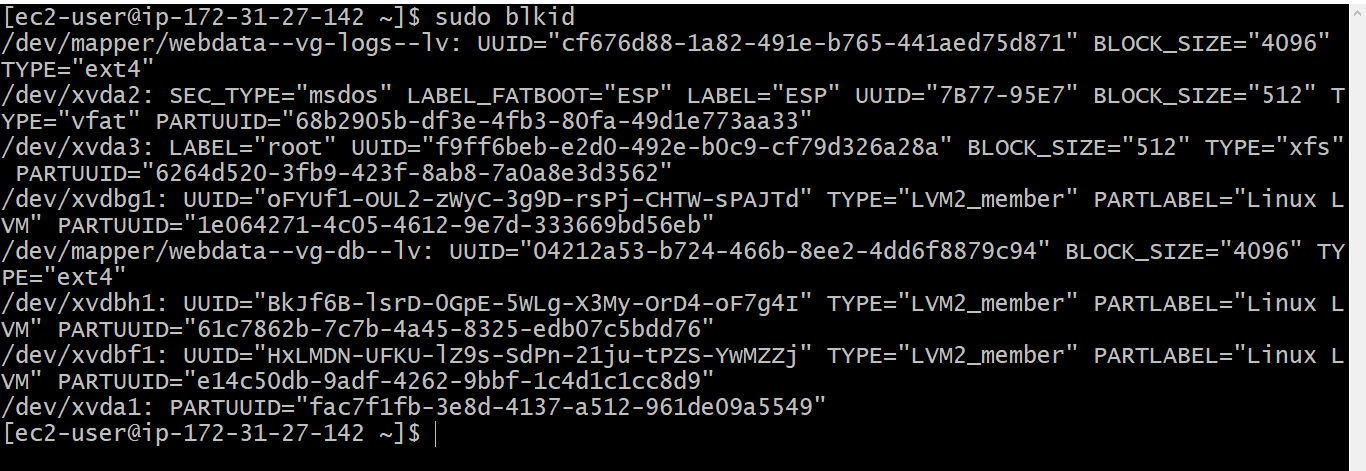
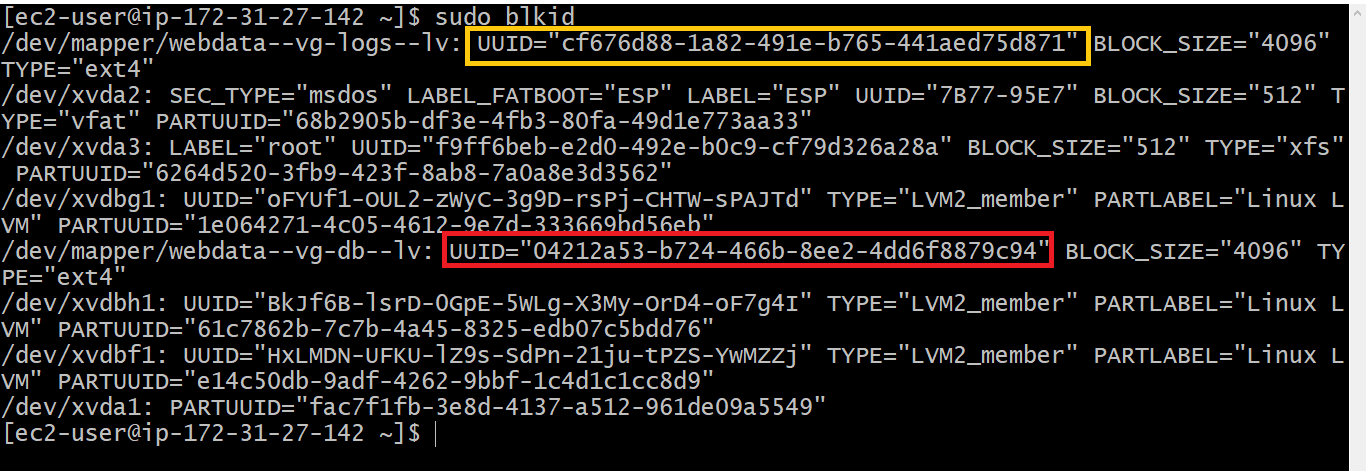
Web_Solution_with_WordPress

Changed region(s): [[0.3382, 0.0297, 0.7994, 0.1486], [0.3075, 0.4756, 0.7687, 0.5945]]

diff --git a/6.Web_Solution_with_Wordpress/README.md b/6.Web_Solution_with_Wordpress/README.md
@@ -57,7 +57,7 @@ NB: Create 3 volumes for the webserver and 3 volume for the MySQL server, each o
 ![attach-volume](../6.Web_Solution_with_Wordpress/images/wss.PNG)
 ---
 
-## 4. Begin Configuration
+## 4. Configurations
 
 Open the bash terminal. Use `lsblk` commmand to inspect what block devices are attached to the server you are on. NB: All devices in linux are in `/dev/` directory.
 ```bash
@@ -141,55 +141,176 @@ sudo vgdisplay -v
 ---
 ![lvs](../6.Web_Solution_with_Wordpress/images/1d.PNG)
 ---
-## 5. Create Remote User
-
-Log into MySQL shell:
+Use `mkfs.ext4` to format the logical volumes with `ext4`filesystem.
 ```bash
-sudo mysql -u root
+sudo mkfs -t ext4 /dev/webdata-vg/apps-lv
+sudo mkfs -t ext4 /dev/webdata-vg/logs-lv
+``` 
+---
+![lvs](../6.Web_Solution_with_Wordpress/images/1f.PNG)
+---
+![lvs](../6.Web_Solution_with_Wordpress/images/1g.PNG)
+---
+Create `/var/www/html` directory to store website files.
+```bash
+sudo mkdir -p /var/www/html
+``` 
+Create `/home/recovery/logs` directory to backup of log data.
+```bash
+sudo mkdir -p /home/recovery/logs
+``` 
+Mount  `/var/www/html` on `apps-lv` logical volume
+```bash
+sudo mount /dev/webdata-vg/apps-lv /var/www/html/
 ```
-Create a user and grant permissions:
-Log into MySQL shell:
+Use `rsync` Utility to backup all the files in the log directory `/var/log` into `/home/recovery/logs` (This is required before mounting the file system)
 ```bash
-CREATE USER 'law'@'%' IDENTIFIED BY 'StrongPassword123!';
-GRANT ALL PRIVILEGES ON *.* TO 'law'@'%' WITH GRANT OPTION;
+sudo rsync -av /var/log/ /home/recovery/logs/
+``` 
+Mount `/var/log` on `logs-lv` logical volume. 
+```bash
+sudo mount /dev/webdata-vg/logs-lv /var/log
+``` 
+Restore log files back into `/var/log` directory
+```bash
+sudo rsync -av /home/recovery/logs/ /var/log
+``` 
+Update `/etc/fstab` file with the `UUID` from `blkid` so that the mount configuration will persist after restarting the server.
+
+```bash
+sudo blkid
+``` 
+---
+![lvs](../6.Web_Solution_with_Wordpress/images/2b.PNG)
+---
+Update `/etc/fstab` with your own UUID. Remove the quotes.
+
+```bash
+sudo vi /etc/fstab
+``` 
+---
+![lvs](../6.Web_Solution_with_Wordpress/images/2de.PNG)
+---
+Test the configuration and reload the daemon
+
+```bash
+sudo mount -a
+sudo systemctl daemon-reload
+``` 
+Verify by running
+```bash
+df -h
+``` 
+## 5. Prepare the Database Server
+
+Launch a second RedHat EC2 instance and repeat the same steps as as you did for the wordpress server but instead of `apps-lv`. Create `db-lv` and mount it to `/db` directory instead of `/var/www/html/`. 
+
+---
+## 6. Install WordPress on the Web Server 
+
+Update the repository:
+```bash
+sudo yum -y update
+```
+Install `wget`, `Apache` and it's dependencies
+```bash
+sudo yum -y install wget httpd php php-mysqlnd php-fpm php-json
+```
+Start Apache:
+```bash
+sudo systemctl enable httpd
+sudo systemctl start httpd
+sudo systemctl status httpd
+```
+Configure a Free AlmaLinux Repo on RHEL 9
+```bash
+sudo tee /etc/yum.repos.d/almalinux.repo <<'EOF'
+[baseos]
+name=AlmaLinux 9 - BaseOS
+baseurl=http://repo.almalinux.org/almalinux/9/BaseOS/x86_64/os/
+enabled=1
+gpgcheck=0
+
+[appstream]
+name=AlmaLinux 9 - AppStream
+baseurl=http://repo.almalinux.org/almalinux/9/AppStream/x86_64/os/
+enabled=1
+gpgcheck=0
+
+[extras]
+name=AlmaLinux 9 - Extras
+baseurl=http://repo.almalinux.org/almalinux/9/extras/x86_64/os/
+enabled=1
+gpgcheck=0
+EOF
+
+```
+Rebuild Cache
+```bash
+sudo dnf clean all
+sudo dnf makecache
+```
+Now install PHP
+```bash
+sudo dnf install php php-cli php-fpm php-common php-opache php-gd php-curl php-mysqlnd -y
+
+```
+---
+```bash
+sudo systemctl start php-fpm
+sudo systemctl enable php-fpm
+setsebool -P httpd_execmem 1
+```
+Restart Apache
+```bash
+sudo systemctl restart httpd
+```
+Download WordPress and copy wordpress to `/var/www/html`
+```bash
+mkdir wordpress && cd wordpress
+sudo wget http://wordpress.org/latest.tar.gz
+sudo tar -xzvf latest.tar.gz
+sudo rm -rf latest.tar.gz
+```
+---
+```bash
+cp wordpress/wp-config-sample.php wordpress/wp-config.php
+cp -R wordpress /var/www/html/
+```
+Configure SELinux Policies
+```bash
+sudo chown -R apache:apache /var/www/html/wordpress
+sudo chcon -t httpd_sys_rw_content_t /var/www/html/wordpress -R 
+sudo setsebool -P httpd_can_network_connect=1
+```
+## 7. Install MySQL on your DB Server EC2
+
+Install MySQL
+```bash
+sudo yum update
+sudo yum install mysql-server
+```
+Verify MySQL 
+```bash
+sudo systemctl restart mysqld
+sudo systemctl enable mysqld
+```
+Configure DB to work with WordPress
+```bash
+sudo mysqld
+CREATE DATABASE wordpress;
+CREATE USER `myuser`@`<Web-Server-Private-IP-Address>`
+IDENTIFIED BY 'mypass';
+GRANT ALL ON wordpress.* TO 'myuser'@'<Web-Server-Private-IP-Address>';
 FLUSH PRIVILEGES;
-
+SHOW DATABASES;
+exit
 ```
-Check the user list:
+Confiure WordPress to connect to Remote Database.
 ```bash
-SELECT user, host FROM mysql.user;
+sudo yum update
+sudo yum install mysql-server
 ```
----
-![Client-Server](../5.Client_Server_Architecture/images/1a.PNG)
----
-As you can see `law` in the list of users.
----
-## 6. Allow Port 3306 in Firewall / Security Group
-
-If using UFW on the server:
-```bash
-sudo ufw allow 3306/tcp
-sudo ufw reload
-```
-If using AWS EC2, open Security Group inbound rule:
-
-- Type: MySQL/Aurora
-
-- Port: 3306
-
-- Source: 0.0.0.0/0 (or your client’s public IP)
----
-![Client-Server](../5.Client_Server_Architecture/images/1b.PNG)
----
-## 7. Verify MySQL is Listening
-
-Run on server:
-```bash
-sudo ss -tlnp | grep 3306
-
-```
----
-![VerifyMsql](../5.Client_Server_Architecture/images/1c.PNG)
 ---
 ## 8. Install MySQL Client on Server 2
 
